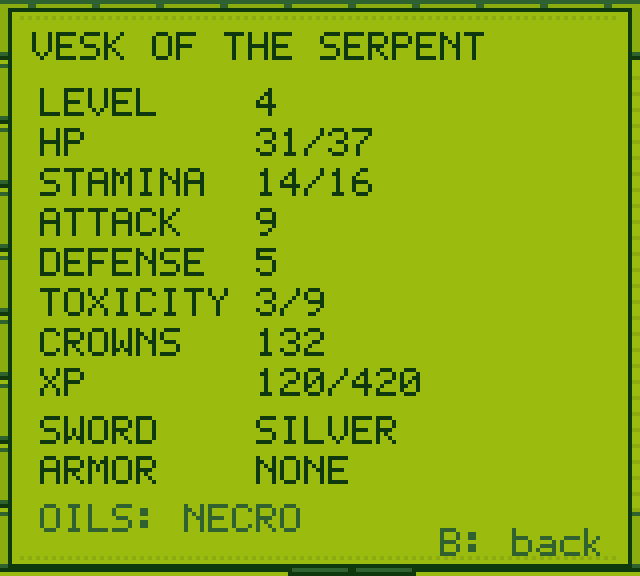
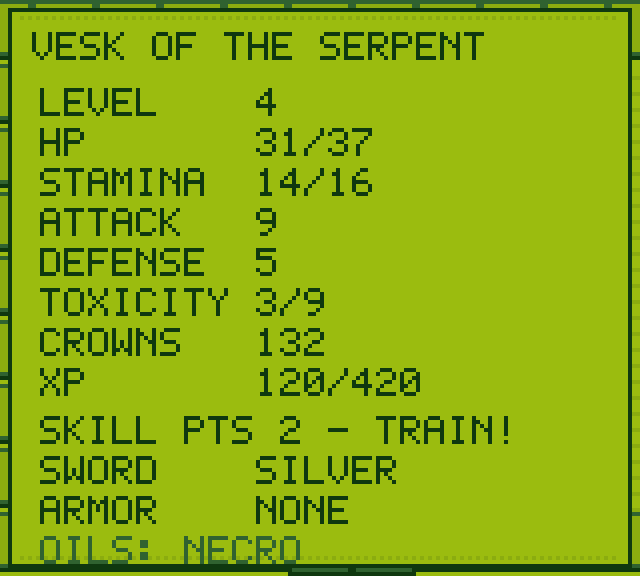
docs(media): v2 media & docs refresh — Northern Reaches gallery, soundtrack, controls
- 10 new screenshots: school select, Fangtooth Pass, Crookback Bog, Kaer
  Serpen, training screen, Royal Griffin boss, Katakan superboss, expanded
  bestiary + regenerated og-banner (27 shots total)
- README: updated features (12 maps, 16 monsters, 5 schools, 59 e2e checks),
  new 'Northern Reaches' gallery section, full 16-track soundtrack table,
  mouse+keyboard controls section, prominent Vercel deployment link
- Architecture table refreshed with v2 line counts
- screenshot-tour.cjs updated for the school-select flow + new scenes

All checks green: typecheck, production build, 59/59 e2e

diff --git a/README.md b/README.md
@@ -42,16 +42,18 @@ rotten truth in the Heart of Oldewood.
 
 | | |
 |---|---|
-| 🗺 **9 hand-built maps** | A village hub, four interiors, swamp, old-growth forest, weeping graveyard, and the dark heart of the wood |
-| 👹 **7 monsters to hunt** | Drowners, ghouls, wolves, water hags, a wraith, a werewolf miniboss, and the Leshen — each with bestiary lore |
-| ⚔ **Pokémon-style battles** | Turn-based combat with **two swords**: steel for beasts of flesh, silver for monsters — plus crits, stuns, poison and shields |
-| 🔥 **4 witcher Signs** | IGNI (fire), AARD (telekinetic shock + stun), QUEN (damage shield), AXII (hex) — fueled by stamina |
-| 🧪 **Alchemy & toxicity** | Swallow, Thunderbolt and White Honey potions, three blade oils, and a toxicity meter that punishes over-drinking |
-| 📜 **Contracts & moral choices** | A notice board economy of quests — including the Weeping Widow, where you choose between mercy and coin |
-| 🎒 **Witcher's kit** | Bestiary, quest log, shop economy, gear reforging, save/continue |
+| 🗺 **12 hand-built maps** | Hollow Creek village, four interiors, Mirelow Swamp, Oldewood, Weeping Graves, the Heart of Oldewood — plus the **Northern Reaches**: Fangtooth Pass, Crookback Bog, and ruined Kaer Serpen |
+| 👹 **16 monsters to hunt** | Drowners, ghouls, wolves, nekkers, endrega, foglets, noonwraiths, rotfiends, barghests, water hags, a wraith — plus five bosses: the Werewolf, the Royal Griffin, the Arachas, the Leshen, and the endgame **Katakan** |
+| 🏫 **5 witcher schools** | Choose your build at character creation: Serpent (balanced), Wolf (signs), Bear (tank), Cat (glass cannon), Griffin (hybrid) — each with stat mods and perks |
+| 📈 **Skill point training** | Every level grants a point — spend it on Vitality, Stamina, Swordplay or Armor in the TRAINING screen |
+| ⚔ **Pokémon-style battles** | Turn-based combat with **two swords**: steel for beasts of flesh, silver for monsters — plus crits, stuns, poison, shields and a fifth monster class (insectoids) with its own oil |
+| 🔥 **4 witcher Signs** | IGNI (fire), AARD (telekinetic shock + stun), QUEN (damage shield), AXII (hex) — fueled by stamina, discounted by school |
+| 🧪 **Alchemy & toxicity** | Swallow, Thunderbolt and White Honey potions, four blade oils, and a toxicity meter that punishes over-drinking |
+| 📜 **12 contracts & moral choices** | A notice board economy of quests — including the Weeping Widow, where you choose between mercy and coin |
+| 🎒 **Witcher's kit** | Bestiary, quest log, 4 shops, tiered gear reforging, save/continue |
 | 🖥 **Full DMG shell** | Play inside a lovingly over-engineered Game Boy: working D-pad, A/B, START/SELECT, battery LED and speaker grille |
-| 🎵 **All-original chiptune** | 7 looping tracks + 20 sound effects synthesized live in Web Audio — square, triangle and noise waves only |
-| 📱 **Keyboard & touch** | Arrows/WASD/Z/X on desktop, on-screen buttons on mobile |
+| 🎵 **All-original chiptune** | **16-track soundtrack** on an authentic 4-channel DMG-style engine (two pulse channels with duty cycles, wave bass, noise drums) + 20 sound effects — synthesized live, zero audio files |
+| 🖱 **Keyboard, mouse & touch** | Arrows/WASD/Z/X/M on desktop, **full mouse support** (click-to-move with pathfinding, clickable menus, right-click cancel, wheel scroll), on-screen buttons on mobile |
 
 ## 🎬 Watch the playthrough
 
@@ -101,6 +103,36 @@ on camera, recorded with the game's own synthesized soundtrack.
 | ![Bestiary](docs/media/screenshots/10-bestiary.png) | ![Ending](docs/media/screenshots/15-ending.png) |
 | *Know your monster, know its weakness.* | *How Hollow Creek remembers you.* |
 
+## 🏔 The Northern Reaches
+
+*The v2 expansion: three new regions, three new bosses, and the ruins of the
+Serpent School itself.*
+
+| Choose your school | Train your witcher |
+|---|---|
+| ![Schools](docs/media/screenshots/20-school-select.png) | ![Training](docs/media/screenshots/24-training.png) |
+| *Five schools, five builds.* | *Spend level-up points your way.* |
+
+| Fangtooth Pass | Crookback Bog |
+|---|---|
+| ![Fangtooth](docs/media/screenshots/21-fangtooth.png) | ![Crookback](docs/media/screenshots/22-crookback.png) |
+| *Barghests on the scree, a griffin on the ridge.* | *Old Kettle trades in the deep mire.* |
+
+| Kaer Serpen | The endgame boss |
+|---|---|
+| ![Kaer Serpen](docs/media/screenshots/23-kaer-serpen.png) | ![Katakan](docs/media/screenshots/27-katakan.png) |
+| *The dead School keeps a pale ghost.* | *The Katakan wears witcher faces.* |
+
+<details>
+<summary><b>👹 More of the bestiary & the Royal Griffin</b></summary>
+
+| New bestiary | Royal Griffin |
+|---|---|
+| ![Bestiary](docs/media/screenshots/26-new-bestiary.png) | ![Griffin](docs/media/screenshots/25-griffin.png) |
+| *Barghest — ember-eyed hound of the pass.* | *Wings like torn sailcloth.* |
+
+</details>
+
 <details>
 <summary><b>🕹 The whole handheld, on desktop and mobile</b></summary>
 
@@ -114,18 +146,24 @@ on camera, recorded with the game's own synthesized soundtrack.
 
 | Input | Action |
 |---|---|
-| **Arrow keys / WASD** | Move (grid-based, camera follows) |
-| **Z** or **Space** | **A** — talk, confirm, read the board, advance text |
-| **X** | **B** — cancel · hold while moving to **run** |
+| **Arrow keys / WASD** | Move (grid-based, camera follows) · **click** any tile to auto-walk there |
+| **Z** / **Space** / **Click** | **A** — talk, confirm, read the board, advance text · **click an NPC** from any distance to walk over and talk |
+| **X** / **Right-click** | **B** — cancel · hold while moving to **run** |
 | **Enter** | **START** — open the witcher's menu |
-| **Shift** | **SELECT** — sound on/off |
+| **Shift** / **M** | **SELECT** — sound on/off |
+| **Mouse wheel** | Browse any list — menus, bestiary, shops, contracts |
 | **On-screen buttons** | Full touch controls on mobile |
+
+Every screen is fully playable by mouse alone or keyboard alone — full input
+parity, the way it should be.
 
 **Survival 101:** read the notice board, take contracts, and let the bestiary
 teach you which blade and which oil each monster fears. Hold **B** to run, talk
 to everyone twice, and remember — the tall reeds rustle before they strike.
 
 ## 🚀 Run it locally
+
+**Or don't — it's deployed: [monster-slayer-ivory.vercel.app](https://monster-slayer-ivory.vercel.app/).**
 
 ```bash
 # install
@@ -147,30 +185,56 @@ is a single client-side canvas application with localStorage saves.
 ```bash
 npm run typecheck   # strict TS, zero errors
 npm run lint        # eslint, clean
-npm run e2e         # 25-check browser E2E: title → intro → quests → battles → ending → save
+npm run e2e         # 59-check browser E2E: title → schools → quests → bosses → ending → save → mouse
 ```
 
 The E2E suite (`scripts/e2e-test.sh`) drives the real game through its full
-quest line — including the wraith peace path, both bosses, and the ending —
-using the same input API a physical controller would.
+quest line — the wraith peace path, all five bosses, the ending, save files,
+and the mouse/pointer layer — using the same input API a physical controller
+would.
+
+## 🎵 Soundtrack
+
+Sixteen original compositions on the 4-channel engine — every note placed by
+hand in tracker notation:
+
+| Scene | Track | Feel |
+|---|---|---|
+| Title | *The Witcher's Road* | E-minor overture, the game's main theme |
+| Hollow Creek | *Hollow Creek* | Warm C-major village air |
+| The Sleeping Griffin | *The Sleeping Griffin* | 138 BPM tavern jig |
+| Mirelow Swamp | *Mirelow* | Murky D-dorian crawl |
+| Oldewood | *Oldewood Path* | Adventurous D-minor march |
+| Weeping Graves | *Weeping Graves* | Sparse, mournful A-minor |
+| Fangtooth Pass | *Fangtooth Sky* | Windswept C-minor climb |
+| Kaer Serpen | *Kaer Serpen* | Fallen-majesty ruins theme |
+| Heart of Oldewood | *Beneath the Roots* | Low drone before the Leshen |
+| Battle | *Steel & Silver* | Driving A-phrygian |
+| Boss · Werewolf | *Moonblood* | Heavy D-minor |
+| Boss · Leshen | *Heart of Oldewood* | 168 BPM finale |
+| Victory | fanfare | Non-looping ta-da |
+| Defeat | sting | Descending game-over |
+| Ending | *The Serpentine Path* | Title-theme reprise, resolved to G major |
+| Shops | *Crowns & Curiosities* | Playful F-major |
 
 ## 🏗 Architecture
 
-The game is ~5,100 lines of dependency-free TypeScript. Every sprite, tile,
+The game is ~7,500 lines of dependency-free TypeScript. Every sprite, tile,
 font glyph and sound wave is generated in code — there are **zero art assets
 and zero audio files**.
 
 | Module | Lines* | Responsibility |
 |---|---|---|
-| [`engine.ts`](src/game/engine.ts) | 1,084 | State machine (14 modes), grid movement + camera, NPC wander, encounters, warps, save/load, endings |
-| [`sprites.ts`](src/game/sprites.ts) | 1,114 | Pixel-art tileset (35+ tiles incl. animated water), witcher sprite (4 dirs × 2 frames), 9 NPCs |
-| [`battle.ts`](src/game/battle.ts) | 644 | Turn-based combat: swords, oils, signs, Quen, toxicity, poison, crits, boss AI |
-| [`engineMenus.ts`](src/game/engineMenus.ts) | 531 | START menu, bag, stats, contracts, bestiary, shops, notice board, ending |
-| [`dialogue.ts`](src/game/dialogue.ts) | 418 | Branching dialogues with conditions, actions and Witcher-style choices |
-| [`maps.ts`](src/game/maps.ts) | 372 | 9 maps, warps, NPCs, pickups, encounter tables |
-| [`data.ts`](src/game/data.ts) | 233 | Monsters, signs, items, shops, quests |
-| [`monstersGfx.ts`](src/game/monstersGfx.ts) | 187 | 7 battle sprites (the Leshen is a 48px boss) |
-| [`audio.ts`](src/game/audio.ts) | 210 | Web Audio chiptune: 7 tracks + 20 SFX, live-synthesized |
+| [`engine.ts`](src/game/engine.ts) | 1,404 | State machine (16 modes), grid movement + camera, BFS click-to-walk, NPC wander, encounters, warps, save/load, endings |
+| [`sprites.ts`](src/game/sprites.ts) | 1,262 | Pixel-art tileset (40+ tiles incl. animated water), witcher sprite (4 dirs × 2 frames), 12 NPCs |
+| [`engineMenus.ts`](src/game/engineMenus.ts) | 712 | START menu, bag, stats, contracts, training, bestiary, shops, notice board, ending + pointer hit-testing |
+| [`battle.ts`](src/game/battle.ts) | 714 | Turn-based combat: swords, oils, signs, Quen, toxicity, poison, crits, boss AI + pointer menus |
+| [`dialogue.ts`](src/game/dialogue.ts) | 726 | Branching dialogues with conditions, actions and Witcher-style choices |
+| [`audio.ts`](src/game/audio.ts) | 728 | 4-channel DMG-style chiptune engine: 16 tracks + 20 SFX, live-synthesized |
+| [`maps.ts`](src/game/maps.ts) | 490 | 12 maps, warps, NPCs, pickups, encounter tables |
+| [`data.ts`](src/game/data.ts) | 422 | Monsters, signs, items, schools, shops, quests |
+| [`monstersGfx.ts`](src/game/monstersGfx.ts) | 391 | 16 battle sprites (bosses are 48px) |
+| [`page.tsx`](src/app/page.tsx) | 313 | DMG device shell, keyboard + mouse + touch input layer |
 | [`font.ts`](src/game/font.ts) | 174 | Hand-rolled 5×7 bitmap font (~90 glyphs) |
 | [`render.ts`](src/game/render.ts) | 89 | GB window frames, HP bars, cursors |
 | [`constants.ts`](src/game/constants.ts) | 62 | The 4-shade DMG palette + tuning |
